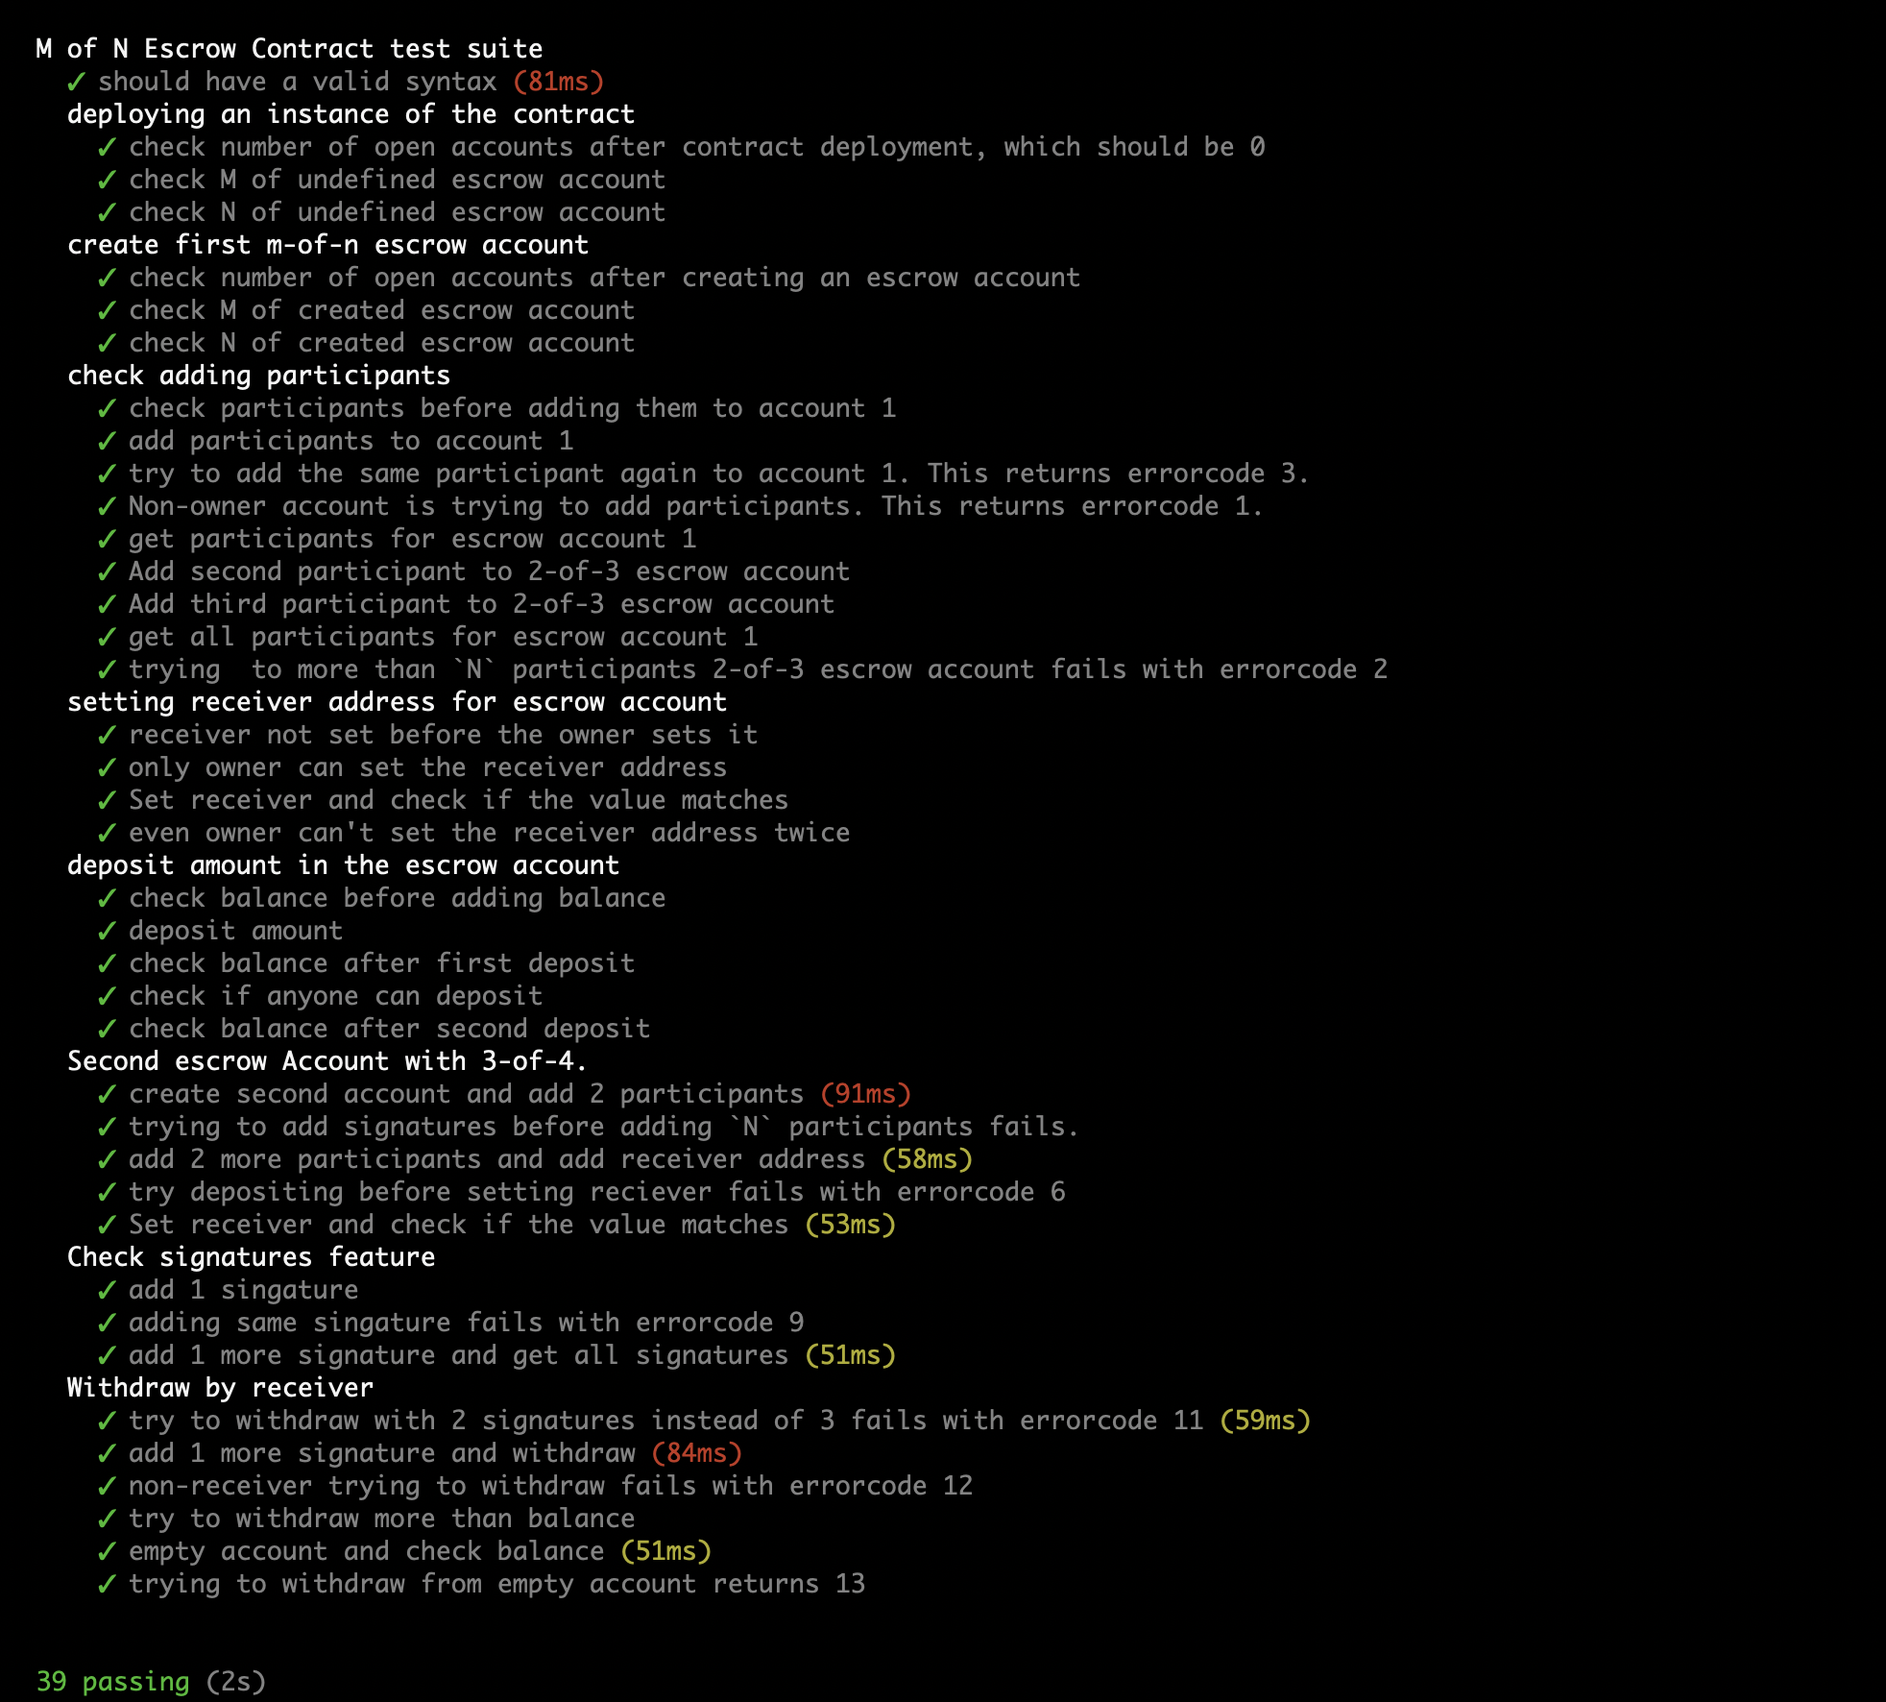
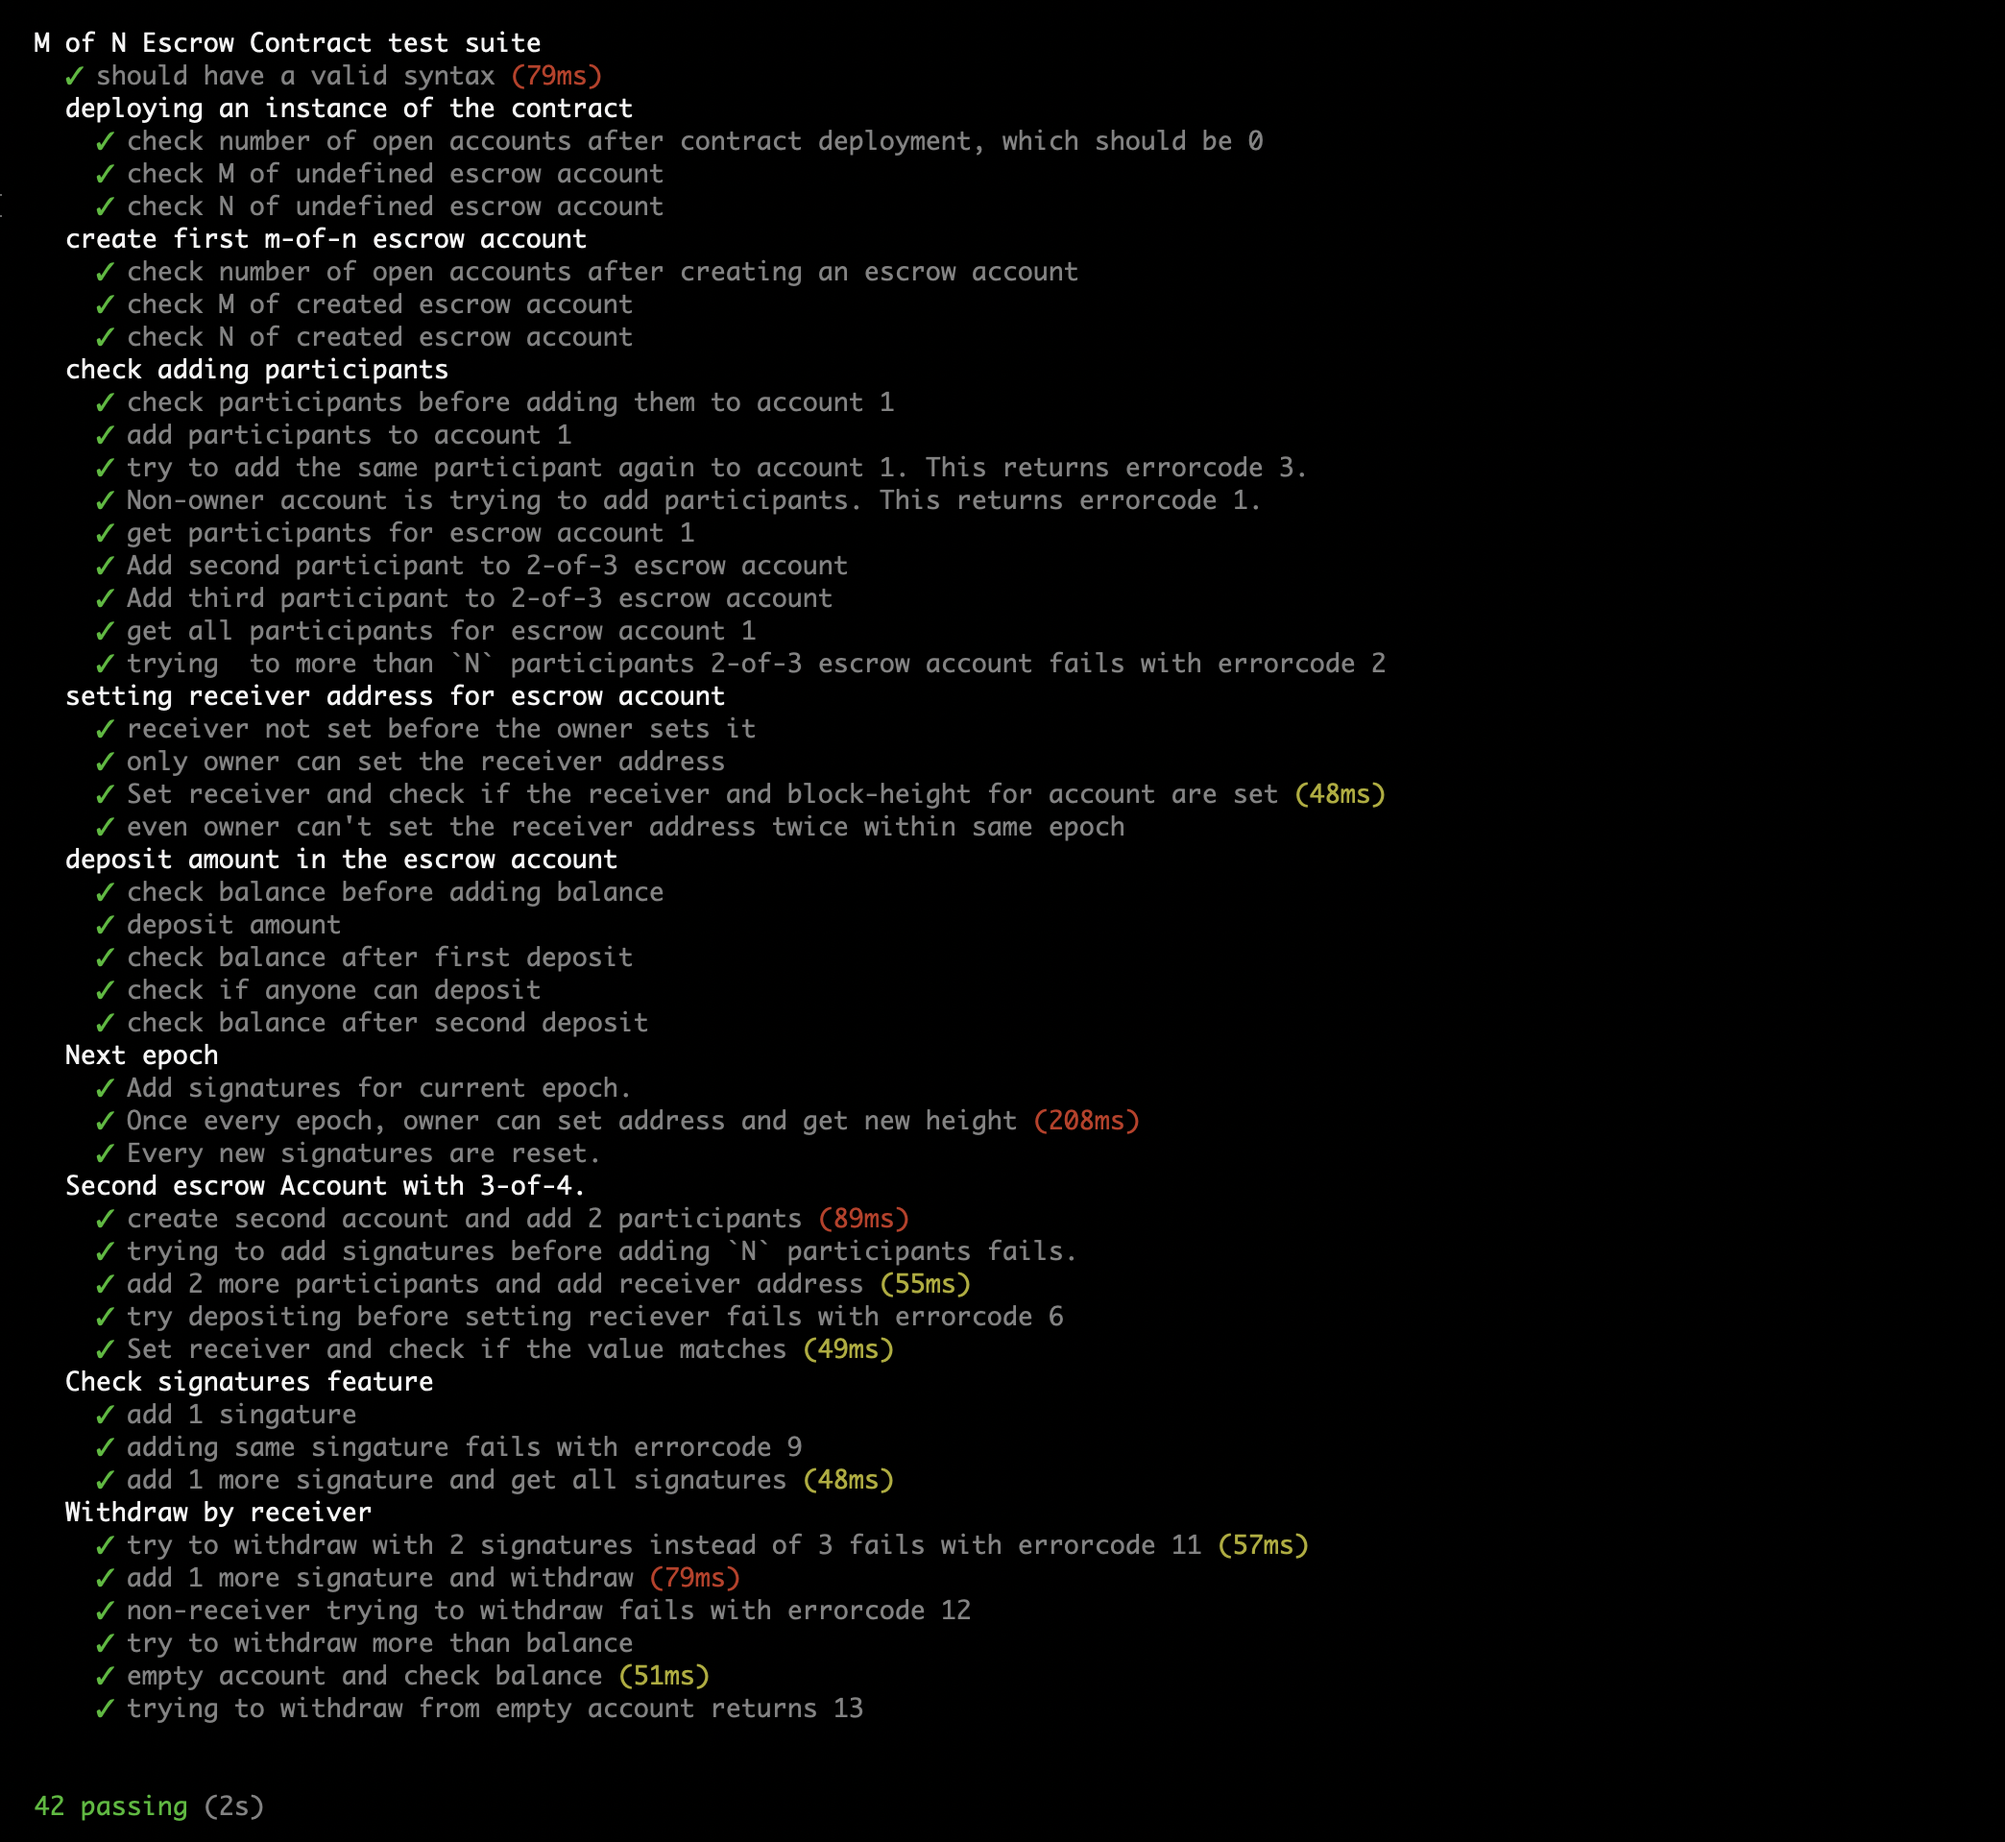
Receiver address can be per epoch

Changed region(s): [[0.0, 0.0, 0.7144, 0.9312], [0.0, 0.9622, 0.1242, 1.0]]

diff --git a/test/test.ts b/test/test.ts
@@ -28,19 +28,16 @@ describe("M of N Escrow Contract test suite", () => {
 		})
 
 		it("check number of open accounts after contract deployment, which should be 0 ", async () => {
-			// for passing uint prefix with u and for principal prefix with u
 			const result = await escrowClient.getOpenAccounts()
 			assert.equal(result, "u0")
 		})
 		it("check M of undefined escrow account ", async () => {
-			// for passing uint prefix with u and for principal prefix with u
 			const result = await escrowClient.getM("u1")
 			// errorcode 4 means that the account is not defined
 			assert.equal(result, "(err 4)")
 		})
 
 		it("check N of undefined escrow account ", async () => {
-			// for passing uint prefix with u and for principal prefix with u
 			const result = await escrowClient.getN("u1")
 			// errorcode 4 means that the account is not defined
 			assert.equal(result, "(err 4)")
@@ -52,20 +49,20 @@ describe("M of N Escrow Contract test suite", () => {
 	describe("create first m-of-n escrow account", () => {
 
 		it("check number of open accounts after creating an escrow account", async () => {
-			// for passing uint prefix with u and for principal prefix with u
+			// open a new escrow account 2-of-3
 			const result = await escrowClient.createAccount(addrs[0], {m: "u2",n:"u3"})
 			assert.equal(result, "u1")
 		})
 
 		it("check M of created escrow account ", async () => {
-			// for passing uint prefix with u and for principal prefix with u
+			// get M for the account 1
 			const result = await escrowClient.getM("u1")
 			// errorcode 4 means that the account is not defined
 			assert.equal(result, "(ok u2)")
 		})
 
 		it("check N of created escrow account ", async () => {
-			// for passing uint prefix with u and for principal prefix with u
+			// get N for the account 1
 			const result = await escrowClient.getN("u1")
 			// errorcode 4 means that the account is not defined
 			assert.equal(result, "(ok u3)")
@@ -74,13 +71,12 @@ describe("M of N Escrow Contract test suite", () => {
 
 	describe("check adding participants", () => {
 		it("check participants before adding them to account 1", async () => {
-			// for passing uint prefix with u and for principal prefix with u
+			// check participants list for account 1
 			const result = await escrowClient.getParticipants("u0")
 			assert.equal(result, "(ok ())")
 			// assert.equal(result, "u1");
 		})
 		it("add participants to account 1", async () => {
-			// for passing uint prefix with u and for principal prefix with '
 			const result = await escrowClient.addParticipant({sender: addrs[0], accountNumber: "u1", participant: addrs[1]})
       
 			// returns true as the participant is added
@@ -94,7 +90,7 @@ describe("M of N Escrow Contract test suite", () => {
 			assert.equal(result, "3")
 		})
 		it("Non-owner account is trying to add participants. This returns errorcode 1.", async () => {
-			// for passing uint prefix with u and for principal prefix with '
+			// only owner can et the participants of contract
 			const result = await escrowClient.addParticipant({sender: addrs[1], accountNumber: "u1", participant: addrs[2]})
       
 			// this call returns error code 1, which means sender is not the owner of account.
@@ -142,16 +138,19 @@ describe("M of N Escrow Contract test suite", () => {
 			const result = await escrowClient.setReceiver({sender: addrs[1], accountNumber: "u1", receiver: addrs[4]})
 			assert.equal(result, "1")
 		})
-		it("Set receiver and check if the value matches", async () => {
-			const result = await escrowClient.setReceiver({sender: addrs[0], accountNumber: "u1", receiver: addrs[4]})
+
+		it("Set receiver and check if the receiver and block-height for account are set", async () => {
+			let result = await escrowClient.setReceiver({sender: addrs[0], accountNumber: "u1", receiver: addrs[4]})
 			assert.equal(result, "true")
+			result = await escrowClient.getBlockHeight("u1")
+			assert.notEqual(result, "(ok u0)")
 		})
-		it("even owner can't set the receiver address twice", async () => {
+ 
+		it("even owner can't set the receiver address twice within same epoch", async () => {
 			const result = await escrowClient.setReceiver({sender: addrs[0], accountNumber: "u1", receiver: addrs[4]})
 			// errorcode 5 means receiver address is already set
 			assert.equal(result, "5")
 		})
-
 	})
   
 	describe("deposit amount in the escrow account", () => {
@@ -176,7 +175,39 @@ describe("M of N Escrow Contract test suite", () => {
 			const result = await escrowClient.getBalance("u1")
 			assert.equal(result, "(ok u2000)")
 		})
-	})
+  })
+
+	describe("Next epoch", () => {
+    const HEIGHT_PER_EPOCH =10
+
+    it("Add signatures for current epoch.", async () => {
+			const result = await escrowClient.addSignature({sender: addrs[1], accountNumber: "u1"})
+			assert.equal(result, "true")
+    })
+
+    it("Once every epoch, owner can set address and get new height", async () => {
+      // get old height for account 1
+      let oldheight = await escrowClient.getBlockHeight("u1")
+      assert.notEqual(oldheight, "(ok u0)")
+
+      // enter new epoch by increasing blockchain height by 10
+			for(let i=0 ; i < HEIGHT_PER_EPOCH-5; i++) {
+        await escrowClient.setReceiver({sender: addrs[0], accountNumber: "u1", receiver: addrs[4]})
+      }
+
+			// set address in next epoch
+			let result = await escrowClient.setReceiver({sender: addrs[0], accountNumber: "u1", receiver: addrs[4]})
+			assert.equal(result, "true")
+			// set new height set by calling set-receiver
+      result = await escrowClient.getBlockHeight("u1")
+      // check if the height for account has changed or not
+			assert.notEqual(oldheight, result)
+    })
+    it("Every new signatures are reset.", async () => {
+    let result = await escrowClient.getSignatures("u2")
+    assert.equal(result, `(ok ())`)
+  })
+  })
 
 	describe("Second escrow Account with 3-of-4.", () => {
 		it("create second account and add 2 participants", async () => {

diff --git a/test/escrow.ts b/test/escrow.ts
@@ -28,6 +28,18 @@ class EscrowClient extends Client {
     		args: [accountNumber],
     	})
     }
+    async getBlockHeight(accountNumber: string) {
+    	return await this.query({
+    		method: "get-block-height",
+    		args: [accountNumber],
+    	})
+    }
+    async getChainHeight() {
+    	return await this.query({
+    		method: "get-chain-height",
+    		args: [],
+    	})
+    }
     async getSignatures(accountNumber: string) {
     	return await this.query({
     		method: "get-signatures",

diff --git a/README.md b/README.md
@@ -1,7 +1,18 @@
 # M-of-N Escrow Contract
-This contract is written in clarity is extending basic [escrow@friedger](https://github.com/friedger/clarity-smart-contracts/blob/master/contracts/tokens/escrow.clar). 
+This contract is written in clarity extending basic [escrow@friedger](https://github.com/friedger/clarity-smart-contracts/blob/master/contracts/tokens/escrow.clar). 
 
-### New features:
+## Importance
+This escrow contract has functionalities designed for various use-cases. The main idea behind it, is importance of  the consensus of atleast M participants among N for moving the funds in a transparent way.
+
+People providing donation to NGOs and relief committee, put their trust in its members. But due to  bureaucracy, most members doesn't have say in how money is used. By bringing m-of-n escrow contract in picture, consensus is required for spending money. 
+
+It can also be used for children' banking account, where atleast one of the parent consent is required for spending fund.    
+
+Millennials have poor savings option (401k or IRA), which doesn't have good yield. Also in crypto due to volatility, FUD happens and even hodlers make wrong decisions. Having a escrow crypto account with let's say 5 friends that require alteast 3 to liquidate 10% crypto to fait.
+
+Other benefit of this escrow contract is participants can decided how to spend money. Funds can be divided in small chunks and participants as a group can decide where to spent them, like 30% on health, 40% on lifestyle and 30% on saving.
+
+### Features:
 
 - Instead of having fixed m and n for escrow, this values can now be defined by users for their use-case. Since clarity doesn't allow list with arbitary length. The upper cap for m and n is 10.
 
@@ -11,7 +22,13 @@ This contract is written in clarity is extending basic [escrow@friedger](https:/
 
 - Receiver address is set before depositing. Trying to deposit before setting receiver address, will error with `receiver-not-set`. This uses the participants the fixability to backout if the receiver is not whom they want.
 
+- In escrow contract, time is divided in epoch with 10 blocks per epoch. One can think of epoch as round within which participants perform consensus for doing some action.
+
+- Receiver address can be set once per epoch, if the consensus is not there this epoch for sending funds to someone. Owner can change the addres next epoch.
+
 ## Outline of contract
+### Const data
+- `height-per-epoch`: Blockchain time is divided in epoch, per epoch some height is set. Currently there are 10 blocks per epoch. Each epoch is like a round, where receiver address can be set and new signatures are needed for performing new acction. Owner set the receiver address, but if the consensus is not there or by mistake wrong receiver is set, the receiver can be changed after epoch.
 
 ### Public functins exposed
 
@@ -33,7 +50,8 @@ This functions are capable of modifying the data stored by the contract.
 - `add-signatures`: for adding signatures, which are required for approving the transfer of funds to receiver.
 - `deposit`: this can be called by anyone to add funds. Keeping it open is important for use-case like a climate relief or health crisis. The general public can deposit to this account if they believe in the majority of participants for spending the funds for mentioned cause.
 - `withdraw`: Receiver address set can withdraw funds.
-- `set-receiver`: It is done before depositing funds so that participants can backout if they don't funds to be used for this.
+- `set-receiver`: It is done before depositing funds so that participants can backout if they don't funds to be used for this. If consensus is not there, participants can pariticpate again in the next epoch. As once every epoch the receiver address can be changed.
+
 
 #### Errors
 |  Errorcode   |     Meaning                    |
@@ -51,11 +69,12 @@ This functions are capable of modifying the data stored by the contract.
 | 11 | not-enough-signatures      |
 | 12 | not-receiver-of-account    |
 | 13 | not-enough-balance     |
+| 14 | block-height-not-set |
 
 ### Testing module
 Clarity is among best contract languages with primarily focus on security and writting robust contract logic. It's project skeleton comes with testing modules.
 
-I have written test for testing varies functionalities of the escrow account.
+I have written test for testing various functionalities of the escrow account.
 
 ![test-result](docs/test.png)
 
